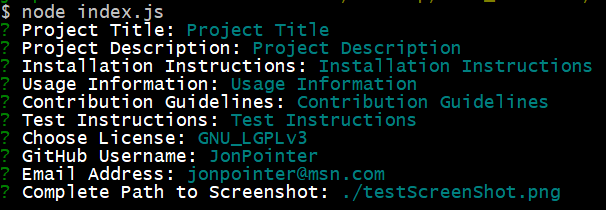
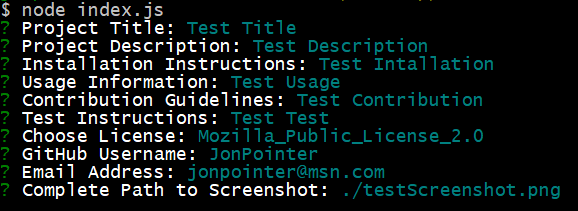
Finalized format, generated screen capture video, and started README file

diff --git a/Develop/utils/generateMarkdown.js b/Develop/utils/generateMarkdown.js
@@ -48,7 +48,7 @@ const writeData = (data) => {
 
   // Write the data to the README file
   fs.writeFile('README.md',
-    `${badgePath}\n# ${data.title}\n## Description\n${data.description}\n## Table of Contents\n- [Installation](#installation)\n- [Usage](#usage)\n- [Contributing](#contributing)\n- [Tests](#tests)\n- [License](#license)\n- [Questions](#questions)\n- [Screenshot](#screenshot)\n## Installation\n${data.installation}\n## Usage\n${data.usage}\n## Contributing\n${data.contribution}\n## Tests\n${data.testing}\n## License\n${data.license}\n\nFor information on this license, please follow [this link](${licensePath})\n## Questions\nContact the author with questions via GitHub or email at\n\n[${data.username} at GitHub](https://github.com/${data.username})<br>${data.email}\n## Screenshot\n${screenPath}`
+    `${badgePath}\n# ${data.title}\n## Description\n${data.description}\n## Table of Contents\n- [Installation](#installation)\n- [Usage](#usage)\n- [Contributing](#contributing)\n- [Tests](#tests)\n- [License](#license)\n- [Questions](#questions)\n- [Screenshot](#screenshot)\n## Installation\n${data.installation}\n## Usage\n${data.usage}\n## Contributing\n${data.contribution}\n## Tests\n${data.test}\n## License\n${data.license}\n\nFor information on this license, please follow [this link](${licensePath})\n## Questions\nContact the author with questions via GitHub or email at\n\n[${data.username} at GitHub](https://github.com/${data.username})<br>${data.email}\n## Screenshot\n${screenPath}`
     , err => {
       if (err) {
         console.error(err)

diff --git a/Develop/README.md b/Develop/README.md
@@ -1,7 +1,7 @@
-![License Badge](https://img.shields.io/badge/License-GNU_LGPLv3-blue)
-# Project Title
+![License Badge](https://img.shields.io/badge/License-Mozilla_Public_License_2.0-blue)
+# Test Title
 ## Description
-Project Description
+Test Description
 ## Table of Contents
 - [Installation](#installation)
 - [Usage](#usage)
@@ -11,20 +11,20 @@ Project Description
 - [Questions](#questions)
 - [Screenshot](#screenshot)
 ## Installation
-Installation Instructions
+Test Intallation
 ## Usage
-Usage Information
+Test Usage
 ## Contributing
-Contribution Guidelines
+Test Contribution
 ## Tests
-undefined
+Test Test
 ## License
-GNU_LGPLv3
+Mozilla_Public_License_2.0
 
-For information on this license, please follow [this link](https://choosealicense.com/licenses/lgpl-3.0/)
+For information on this license, please follow [this link](https://choosealicense.com/licenses/mpl-2.0/)
 ## Questions
 Contact the author with questions via GitHub or email at
 
 [JonPointer at GitHub](https://github.com/JonPointer)<br>jonpointer@msn.com
 ## Screenshot
-![Screenshot](./testScreenShot.png)
+![Screenshot](./testScreenshot.png)
